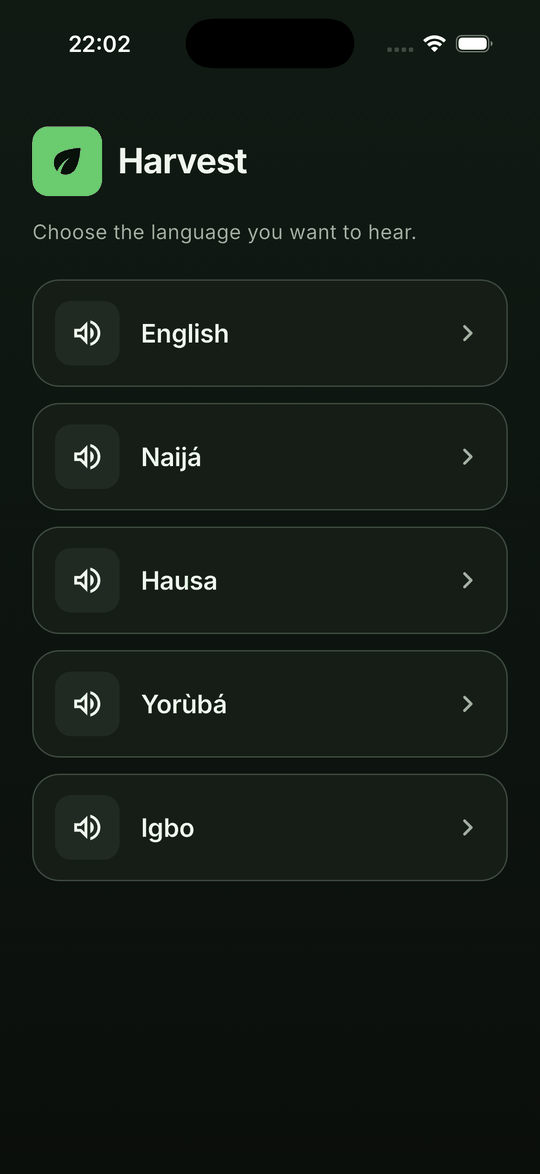
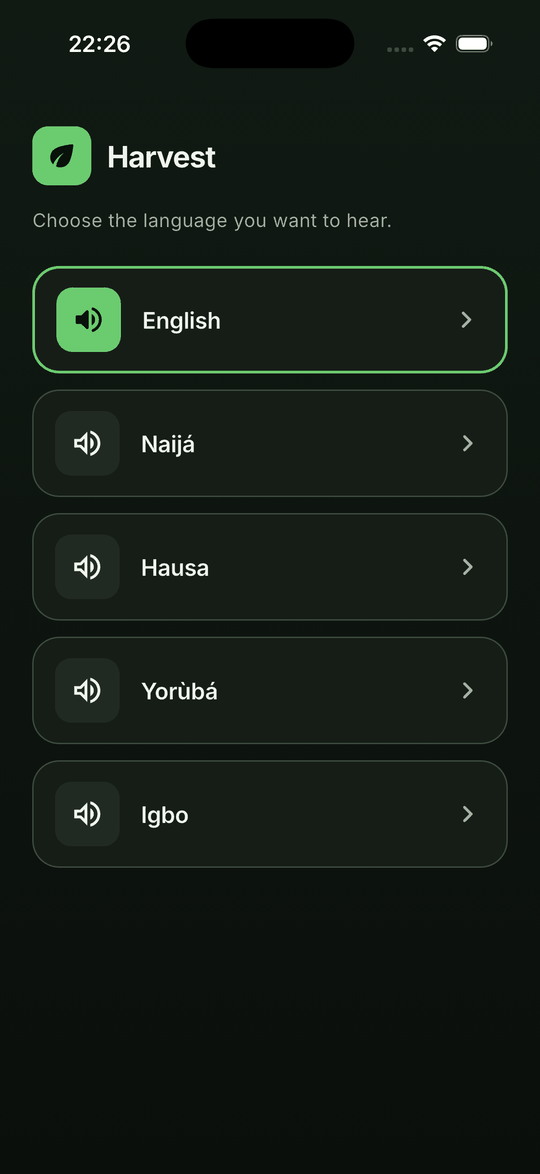
Bring the type scale down a second step and recapture every screenshot

diff --git a/app/lib/core/theme.dart b/app/lib/core/theme.dart
@@ -217,14 +217,21 @@ abstract final class Palette {
 
   /// The type scale.
   ///
-  /// Inter, bundled. Display 26 sp, title 19, body 16, secondary 15.
+  /// Inter, bundled. Display 22 sp, title 17, body 15, secondary 14.
   ///
-  /// It came down a step from 30/22/18/16 after the app was looked at on a
+  /// It has come down twice, from 30/22/18/16, after the app was looked at on a
   /// 6.1" phone rather than reasoned about from the 5" floor. The floor sets
   /// the *minimum* a farmer in sunlight can read; it is not an instruction to
   /// use that minimum everywhere, and at the larger sizes the screens read as
   /// shouting — three rows of crops where five fit, a headline crowding the
   /// thing it introduces.
+  ///
+  /// 14 sp is the floor for **anything a farmer has to read in order to act**,
+  /// and it is a floor rather than a starting point: smaller stops being
+  /// readable at arm's length in bright light, which is the condition this
+  /// product is designed for. Supporting marks that only qualify something
+  /// already legible — a provenance line, a badge, a tile's caption — go to 13
+  /// and no further, and there is exactly one such size in the app.
   ///
   /// **What did not move is the touch targets.** [Target.standard] and
   /// [Target.primary] are 56 and 64 dp because of work-hardened hands on a
@@ -236,7 +243,7 @@ abstract final class Palette {
   /// hierarchy at arm's length in bright light.
   static TextTheme _type(Color primary, Color secondary) => TextTheme(
         displaySmall: TextStyle(
-          fontSize: 26,
+          fontSize: 22,
           height: 1.15,
           fontWeight: FontWeight.w700,
           // Tight, because large text at default tracking looks loose and
@@ -245,39 +252,39 @@ abstract final class Palette {
           color: primary,
         ),
         headlineSmall: TextStyle(
-          fontSize: 21,
+          fontSize: 18,
           height: 1.2,
           fontWeight: FontWeight.w700,
           letterSpacing: -0.4,
           color: primary,
         ),
         titleLarge: TextStyle(
-          fontSize: 19,
+          fontSize: 17,
           height: 1.25,
           fontWeight: FontWeight.w600,
           letterSpacing: -0.2,
           color: primary,
         ),
         titleMedium: TextStyle(
-          fontSize: 16,
+          fontSize: 15,
           height: 1.3,
           fontWeight: FontWeight.w600,
           color: primary,
         ),
         bodyLarge: TextStyle(
-          fontSize: 16,
+          fontSize: 15,
           height: 1.45,
           fontWeight: FontWeight.w400,
           color: primary,
         ),
         bodyMedium: TextStyle(
-          fontSize: 15,
+          fontSize: 14,
           height: 1.45,
           fontWeight: FontWeight.w400,
           color: secondary,
         ),
         labelLarge: TextStyle(
-          fontSize: 16,
+          fontSize: 15,
           height: 1.2,
           fontWeight: FontWeight.w600,
           letterSpacing: 0.1,
@@ -587,7 +594,7 @@ class SectionQuestion extends StatelessWidget {
       padding: const EdgeInsets.only(top: Gap.m, bottom: Gap.xs),
       child: Row(
         children: [
-          Icon(icon, size: 22, color: freshness.fresh),
+          Icon(icon, size: 20, color: freshness.fresh),
           const SizedBox(width: Gap.s),
           Flexible(
             child: Text(text, style: Theme.of(context).textTheme.titleMedium),

diff --git a/app/lib/features/home/home_screen.dart b/app/lib/features/home/home_screen.dart
@@ -391,8 +391,8 @@ class _LotCard extends StatelessWidget {
                     crossAxisAlignment: CrossAxisAlignment.start,
                     children: [
                       SizedBox(
-                        width: 76,
-                        height: 76,
+                        width: 62,
+                        height: 62,
                         child: switch ((spent, state)) {
                           (final fraction?, final lotState?) => FreshnessRing(
                               spent: fraction,
@@ -561,7 +561,14 @@ class _Tag extends StatelessWidget {
     final scheme = Theme.of(context).colorScheme;
 
     return Container(
-      padding: const EdgeInsets.symmetric(horizontal: Gap.s, vertical: Gap.xs),
+      /*
+        Tight on purpose. Two tags side by side is one line; two tags that wrap
+        is two, on every card in the list, and the difference is a lot per
+        screen. The `Wrap` still catches the long ones — "Picked 12 days ago"
+        beside "Dried or processed" does not fit at any padding — so this buys
+        density in the common case without a truncated tag in the rare one.
+      */
+      padding: const EdgeInsets.symmetric(horizontal: 7, vertical: Gap.xs),
       decoration: BoxDecoration(
         color: freshness.high,
         borderRadius: Radii.pill,
@@ -569,8 +576,8 @@ class _Tag extends StatelessWidget {
       child: Row(
         mainAxisSize: MainAxisSize.min,
         children: [
-          Icon(icon, size: 15, color: scheme.onSurfaceVariant),
-          const SizedBox(width: Gap.xs + 2),
+          Icon(icon, size: 14, color: scheme.onSurfaceVariant),
+          const SizedBox(width: Gap.xs),
           /*
             Flexible, with an ellipsis.
 
@@ -586,7 +593,7 @@ class _Tag extends StatelessWidget {
               maxLines: 1,
               overflow: TextOverflow.ellipsis,
               style: Theme.of(context).textTheme.bodyMedium?.copyWith(
-                    fontSize: 14,
+                    fontSize: 13,
                     color: scheme.onSurfaceVariant,
                   ),
             ),

diff --git a/app/lib/features/lots/storage_screen.dart b/app/lib/features/lots/storage_screen.dart
@@ -98,8 +98,8 @@ class _StorageScreenState extends State<StorageScreen> {
                 borderRadius: Radii.chip,
                 child: Image.asset(
                   'assets/crops/${widget.crop.id}.png',
-                  width: 36,
-                  height: 36,
+                  width: 30,
+                  height: 30,
                   fit: BoxFit.cover,
                   excludeFromSemantics: true,
                 ),
@@ -337,7 +337,7 @@ class _DayRow extends StatelessWidget {
                       child: Text(
                         days == 0 ? 'Today' : '$days',
                         style: Theme.of(context).textTheme.labelLarge?.copyWith(
-                              fontSize: days == 0 ? 17 : 20,
+                              fontSize: days == 0 ? 15 : 18,
                               color: picked
                                   ? freshness.onAccent
                                   : scheme.onSurface,

diff --git a/app/lib/features/lots/quantity_screen.dart b/app/lib/features/lots/quantity_screen.dart
@@ -225,8 +225,8 @@ class _QuantityScreenState extends State<QuantityScreen> {
                 borderRadius: Radii.chip,
                 child: Image.asset(
                   'assets/crops/${widget.crop.id}.png',
-                  width: 36,
-                  height: 36,
+                  width: 30,
+                  height: 30,
                   fit: BoxFit.cover,
                   excludeFromSemantics: true,
                 ),
@@ -420,7 +420,7 @@ class _Typed extends StatelessWidget {
                 typed.isEmpty ? '0' : typed,
                 key: const ValueKey('typed'),
                 style: text.displaySmall?.copyWith(
-                  fontSize: 38,
+                  fontSize: 32,
                   // Tabular figures, so the number does not shift sideways as
                   // digits are typed. A display that jiggles under the thumb
                   // reads as the app struggling.

diff --git a/app/lib/features/money/decision_screen.dart b/app/lib/features/money/decision_screen.dart
@@ -100,8 +100,8 @@ class _DecisionScreenState extends State<DecisionScreen> {
                 borderRadius: Radii.chip,
                 child: Image.asset(
                   'assets/crops/${widget.lot.crop.id}.png',
-                  width: 36,
-                  height: 36,
+                  width: 30,
+                  height: 30,
                   fit: BoxFit.cover,
                   excludeFromSemantics: true,
                 ),
@@ -255,7 +255,7 @@ class _Provenance extends StatelessWidget {
           child: Text(
             '${figure.from.label} · ${figure.ageInWordsAt(now)}',
             style: Theme.of(context).textTheme.bodyMedium?.copyWith(
-                  fontSize: 14,
+                  fontSize: 13,
                   color: scheme.onSurfaceVariant,
                 ),
           ),

diff --git a/app/lib/features/language/language_screen.dart b/app/lib/features/language/language_screen.dart
@@ -76,15 +76,15 @@ class _LanguageScreenState extends State<LanguageScreen> {
                       else set up for them.
                     */
                     Container(
-                      width: 52,
-                      height: 52,
+                      width: 44,
+                      height: 44,
                       decoration: BoxDecoration(
                         color: freshness.fresh,
                         borderRadius: Radii.chip,
                       ),
                       child: Icon(
                         Icons.eco_rounded,
-                        size: 30,
+                        size: 26,
                         color: freshness.onAccent,
                       ),
                     ),

diff --git a/app/lib/features/money/price_screen.dart b/app/lib/features/money/price_screen.dart
@@ -123,7 +123,7 @@ class _PriceScreenState extends State<PriceScreen> {
                                   naira(_offered),
                                   key: const ValueKey('offered'),
                                   style: text.displaySmall?.copyWith(
-                                    fontSize: 40,
+                                    fontSize: 34,
                                     fontFeatures: const [
                                       FontFeature.tabularFigures()
                                     ],

diff --git a/app/lib/features/money/storage_offer_screen.dart b/app/lib/features/money/storage_offer_screen.dart
@@ -110,7 +110,7 @@ class _StorageOfferScreenState extends State<StorageOfferScreen> {
                               naira(_perDay),
                               key: const ValueKey('perDay'),
                               style: text.displaySmall?.copyWith(
-                                fontSize: 40,
+                                fontSize: 34,
                                 fontFeatures: const [
                                   FontFeature.tabularFigures()
                                 ],

diff --git a/app/lib/features/money/costs_screen.dart b/app/lib/features/money/costs_screen.dart
@@ -112,7 +112,7 @@ class _CostsScreenState extends State<CostsScreen> {
                               naira(_transport),
                               key: const ValueKey('transport'),
                               style: text.displaySmall?.copyWith(
-                                fontSize: 40,
+                                fontSize: 34,
                                 fontFeatures: const [
                                   FontFeature.tabularFigures()
                                 ],

diff --git a/app/lib/features/lots/keypad.dart b/app/lib/features/lots/keypad.dart
@@ -84,7 +84,7 @@ class Keypad extends StatelessWidget {
                                 .textTheme
                                 .titleLarge
                                 ?.copyWith(
-                                  fontSize: 23,
+                                  fontSize: 20,
                                   fontFeatures: const [
                                     FontFeature.tabularFigures()
                                   ],

diff --git a/app/lib/features/lots/outcome_sheet.dart b/app/lib/features/lots/outcome_sheet.dart
@@ -83,8 +83,8 @@ class _OutcomeSheetState extends State<OutcomeSheet> {
                 borderRadius: Radii.chip,
                 child: Image.asset(
                   'assets/crops/${widget.lot.crop.id}.png',
-                  width: 36,
-                  height: 36,
+                  width: 30,
+                  height: 30,
                   fit: BoxFit.cover,
                   excludeFromSemantics: true,
                 ),

diff --git a/CHANGELOG.md b/CHANGELOG.md
@@ -30,14 +30,18 @@ Entries say *why*, not just what.
 - **Every README screenshot recaptured**, and two added — the costs screen and a
   store's quote as a third course, neither of which had ever been shown. The old
   ten were a tour of grey hatching.
-- **The type scale came down a step** — display 30→26, title 22→19, body 18→16,
-  secondary 16→15, with the radii following. The 5" floor sets the *minimum* a
-  farmer in sunlight can read; it was being used as an instruction to set
-  everything at that minimum, and on a 6.1" phone the result read as shouting —
-  three and a half rows of a twenty-five crop grid, a headline crowding the
-  thing it introduces. **The touch targets did not move**: 56 dp and 64 dp are
-  about work-hardened hands on a dusty screen, which is a different constraint
-  from legibility and is not negotiable against how a screen looks.
+- **The type scale came down two steps** — display 30→22, headline 24→18, title
+  22→17, body 18→15, secondary 16→14, with the radii, the app-bar thumbnails,
+  the freshness ring and the number displays following. The 5" floor sets the
+  *minimum* a farmer in sunlight can read; it was being used as an instruction
+  to set everything at that minimum, and on a 6.1" phone the result read as
+  shouting — three and a half rows of a twenty-five crop grid, a headline
+  crowding the thing it introduces. There is now one exception below 14 sp: a
+  single 13 sp used for marks that only qualify something already legible — a
+  provenance line, a badge, a tile caption — and nothing else may go there.
+  **The touch targets did not move**: 56 dp and 64 dp are about work-hardened
+  hands on a dusty screen, which is a different constraint from legibility and
+  is not negotiable against how a screen looks.
 - **The crop tile's picture is wider than tall**, so more of the catalogue is on
   screen. Square was the first version; a farmer looking for *garden egg* is
   better served by seeing more of the grid than by seeing each entry larger.
